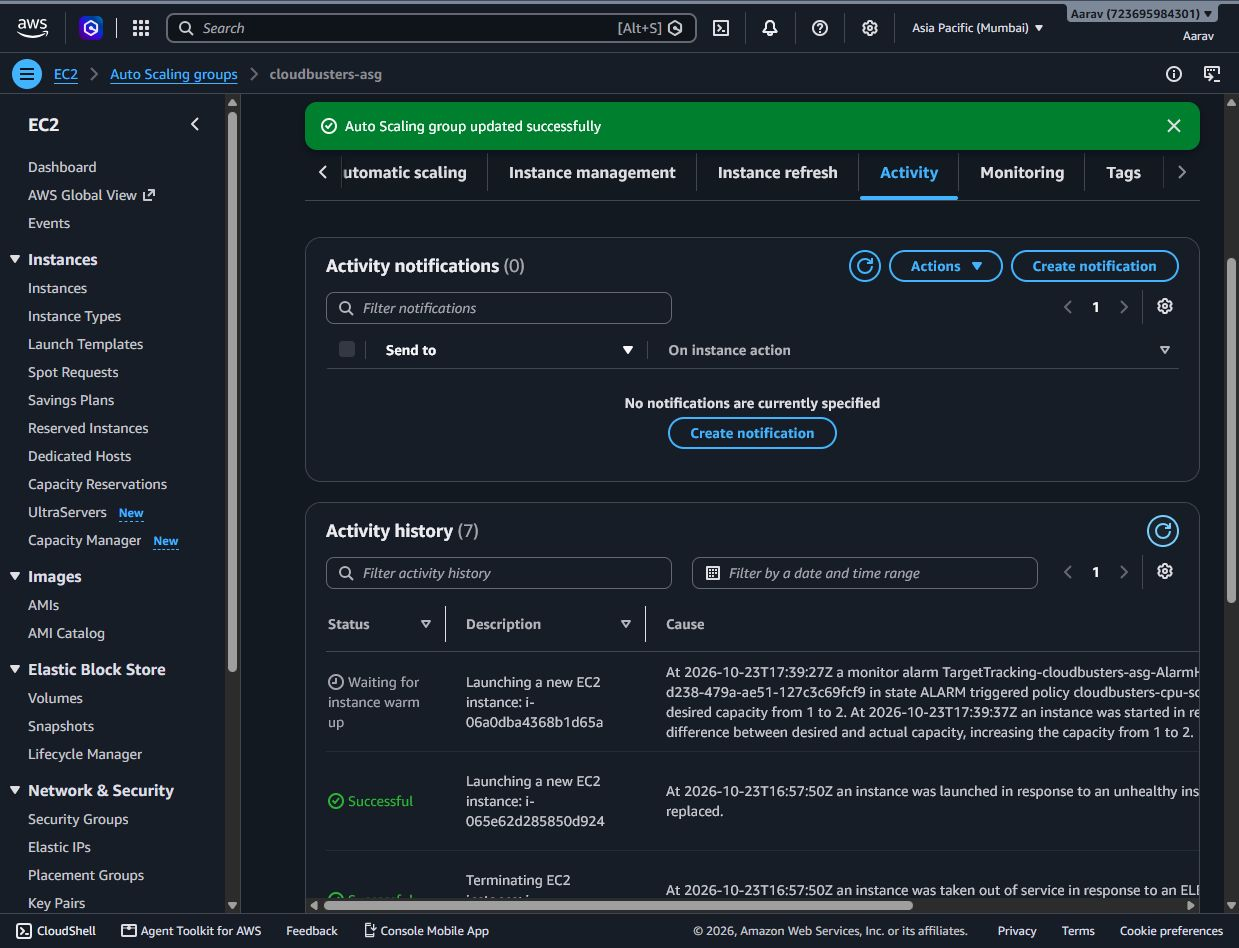
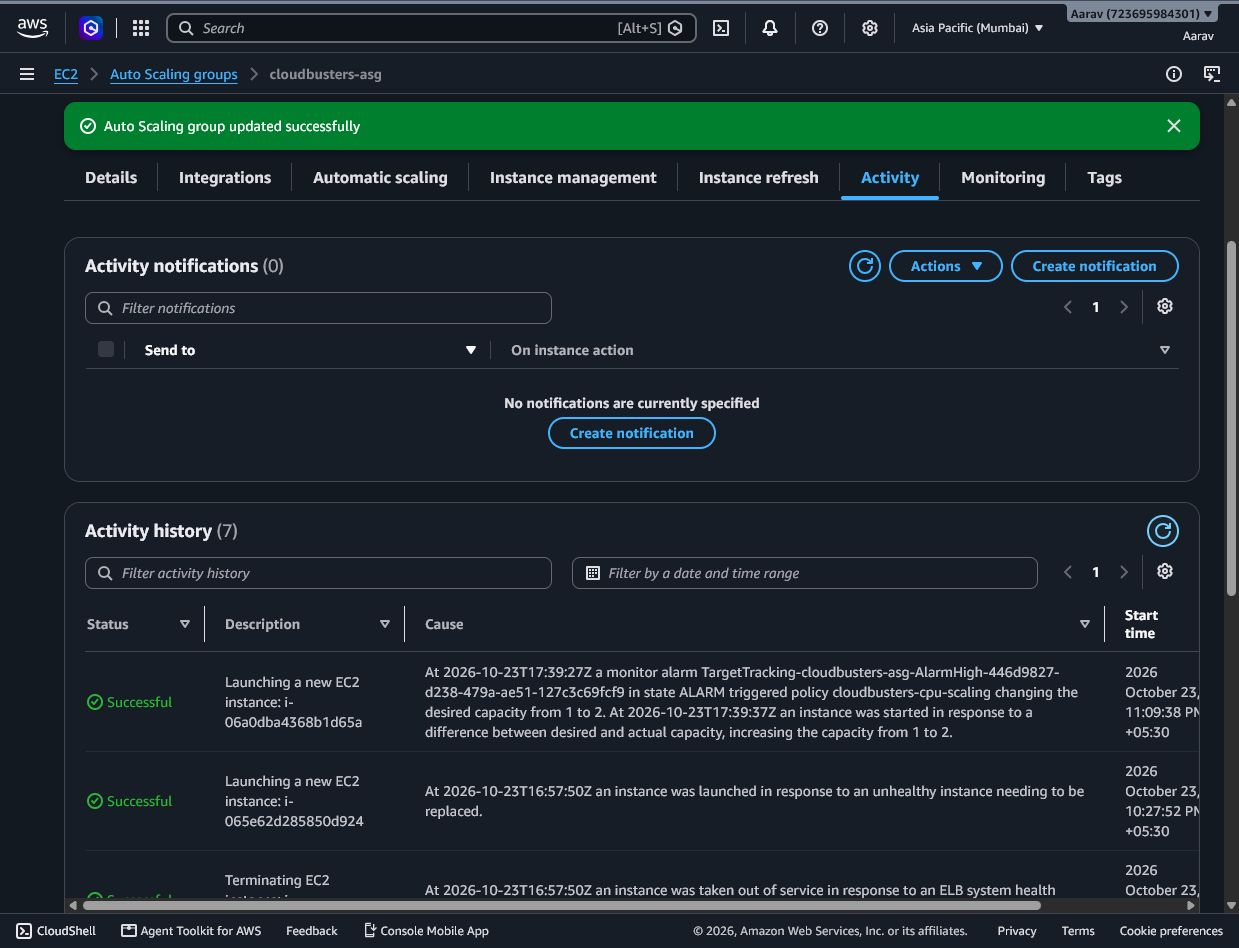
feat: add deployment verification documentation and evidence for Cloud Busters

diff --git a/docs/CURRENT_STATE.md b/docs/CURRENT_STATE.md
@@ -1,0 +1,53 @@
+# Cloud Busters — verified state, 23 October 2026
+
+This is the current deployment record. Older readiness reports are historical. About 90% of the proposed course-project scope is implemented; this is an engineering estimate, not an AWS score. CloudFront remains blocked by account verification.
+
+## Working and demonstrated
+
+| Requirement | Verified result |
+|---|---|
+| Web application | HTML/CSS/JS and Express API through the HTTP ALB; create/list users persist in RDS |
+| Database | RDS MySQL Community, db.t4g.micro, Available in ap-south-1b, Multi-AZ No, publicly accessible No; inbound source is application SG |
+| Load balancing | Two healthy ASG servers sampled by the final verification: ip-172-30-10-197 and ip-172-30-11-4 |
+| Automatic scale-out | At 17:39:27 UTC the high CPU alarm invoked cloudbusters-cpu-scaling and changed desired capacity 1→2; new instance i-06a0dba4368b1d65a became Healthy |
+| Automatic scale-in | Earlier low CPU alarm changed desired capacity 2→1; Activity evidence distinguishes this from manual scale-out |
+| Recovery | Stopped the application service on an ASG instance; ELB health failure caused automatic replacement; replacement served healthy DB-connected responses |
+| Bootstrap | ASG explicitly uses launch template version 2; private S3 archive, locked dependencies, systemd, IMDSv2, SSM password lookup, detailed monitoring and log agent |
+| Monitoring | CloudBusters dashboard: ASG CPU, ALB health/requests, RDS CPU/connections/storage. Target tracking alarms enabled |
+| Logs | /cloudbusters/app, seven-day retention, instance streams including the freshly bootstrapped i-06a0dba4368b1d65a |
+| IAM | Exact parameter read, exact deployment-object read, scoped application-log write; no decrypted password in code/archive/user data |
+| Static asset preparation | style.css and app.js uploaded to a separate private S3 bucket; public access remains blocked |
+| Code checks | Three application tests passed; npm audit reported zero known vulnerabilities at deployment time |
+
+Final live API verification at **17:45:50 UTC** passed health, HTML, both assets, create/list persistence, duplicate handling and invalid input. A named synthetic verification record was created (ID 8). See [machine-readable evidence](evidence/deployment-verification.json).
+
+## Operating configuration
+
+- ALB: http://cloudbusters-alb-2088482537.ap-south-1.elb.amazonaws.com
+- ASG: cloudbusters-asg; minimum 1, maximum 2; CPU target 50%; scale-in enabled; health grace 600 seconds. Desired capacity can return to 1 automatically after load falls.
+- Target group: cloudbusters-tg, HTTP 3000, health path /api/health (SELECT 1).
+- Healthy capacity observed: i-06a0dba4368b1d65a in 1a and i-065e62d285850d924 in 1b.
+- Original standalone i-0d651b2e02cf2fa85 was deregistered and confirmed Stopped for reversible rollback storage. It is not part of the serving design. EBS storage still costs money.
+- Stress test was stopped after the genuine automatic scale-out; no continuous load is intended.
+- Deployment bucket: cloudbusters-deploy-723695984301; static bucket: cloudbusters-static-723695984301. Both are private.
+
+## Remaining and blocked
+
+1. **CloudFront:** AWS rejected distribution creation pending account verification. No distribution or CDN URL exists. See [exact blocker and completion steps](CLOUDFRONT_PENDING.md). STATIC_ASSET_BASE remains unset; website serves local assets.
+2. **HTTPS and application authentication:** The current public demo uses HTTP and has no user authentication. Do not enter sensitive real user data. HTTPS for the full application requires an appropriate domain/certificate and ALB configuration; a static CDN alone does not secure API traffic.
+3. **Production availability:** Minimum 1 does not guarantee simultaneous multi-AZ application capacity. RDS is single-AZ; no DB failover demonstration is claimed.
+4. **Further hardening:** Use a restricted database application user, verify DB TLS, review credential rotation, and consider private application subnets with managed outbound access. These are not claimed as done.
+
+Account also disallows T3 Unlimited and currently blocks CloudShell initialization. Neither prevents this demonstrated deployment. Standard CPU credits require care for repeated load tests. Detailed monitoring and logs incur usage charges.
+
+## Evidence and handover
+
+- [Automatic CPU scale-out](evidence/automatic-cpu-scaleout.jpg)
+- [Final targets](evidence/final-targets.jpg)
+- [CloudWatch logs](evidence/cloudwatch-logs.jpg)
+- [Dashboard](evidence/cloudwatch-dashboard.jpg)
+- [CloudFront account blocker](evidence/cloudfront-account-blocker.jpg)
+- [Activity text](SCALING_ACTIVITY.txt)
+- [Architecture](ARCHITECTURE.md), [review/demo guide](REVIEW_GUIDE.md), [cost cleanup](CLEANUP.md)
+
+Preserve evidence before changing capacity or deleting resources. Do not stop individual ASG instances as a cost-control method: the group replaces them. Follow CLEANUP.md when the demo is finished.

diff --git a/docs/REVIEW_GUIDE.md b/docs/REVIEW_GUIDE.md
@@ -6,7 +6,7 @@ Our project is a Scalable Multi-Tier Web Application. Its presentation tier is a
 
 Users enter through an Application Load Balancer. Its target group forwards requests to application instances managed by an Auto Scaling Group. Each instance starts from a Launch Template, downloads an allowlisted application ZIP from private S3, installs its locked dependencies and starts a systemd service. Instances use an IAM role to retrieve the database password from an encrypted Systems Manager parameter. The password is not in user data or the deployment archive.
 
-We have demonstrated creating and retrieving users, persistent RDS storage, traffic distribution, manual scale-out, CPU-policy scale-in, and automatic replacement after an application service failure. CloudWatch collects application logs and displays infrastructure metrics. Consult CURRENT_STATE.md for the final CPU scale-out test result.
+We have demonstrated creating and retrieving users, persistent RDS storage, traffic distribution, automatic CPU-triggered scale-out, CPU-policy scale-in, and automatic replacement after an application service failure. CloudWatch collects application logs and displays infrastructure metrics. At 17:39:27 UTC on 23 October, the high CPU alarm changed desired capacity from one to two; the new instance became healthy.
 
 S3 static assets are prepared in a separate private bucket. CloudFront creation was rejected by AWS because this account needs verification, so CDN delivery is not claimed as complete. The current website uses HTTP, and the economical single-instance ASG setting is not continuous multi-AZ availability. These are disclosed limitations, not hidden implementation claims.
 
@@ -28,7 +28,7 @@ S3 static assets are prepared in a separate private bucket. CloudFront creation 
 5. Show ASG Launch Template version and non-secret user data.
 6. Show IAM role's parameter-read, deployment-read and scoped log-write policies. Never open the parameter's decrypted value.
 7. Show private RDS networking and SG source reference.
-8. Show successful ASG Activity events with causes: manual scale-out, policy scale-in, ELB-triggered replacement; include CPU-triggered scale-out only if verified in CURRENT_STATE.md.
+8. Show successful ASG Activity events with causes: CPU-triggered scale-out, policy scale-in, and ELB-triggered replacement. Distinguish earlier manual scale-out from the genuine high-CPU event recorded in CURRENT_STATE.md.
 9. Open CloudWatch CloudBusters dashboard and /cloudbusters/app log stream.
 10. Show S3 private deployment/static buckets and disclose the CloudFront verification blocker.
 
